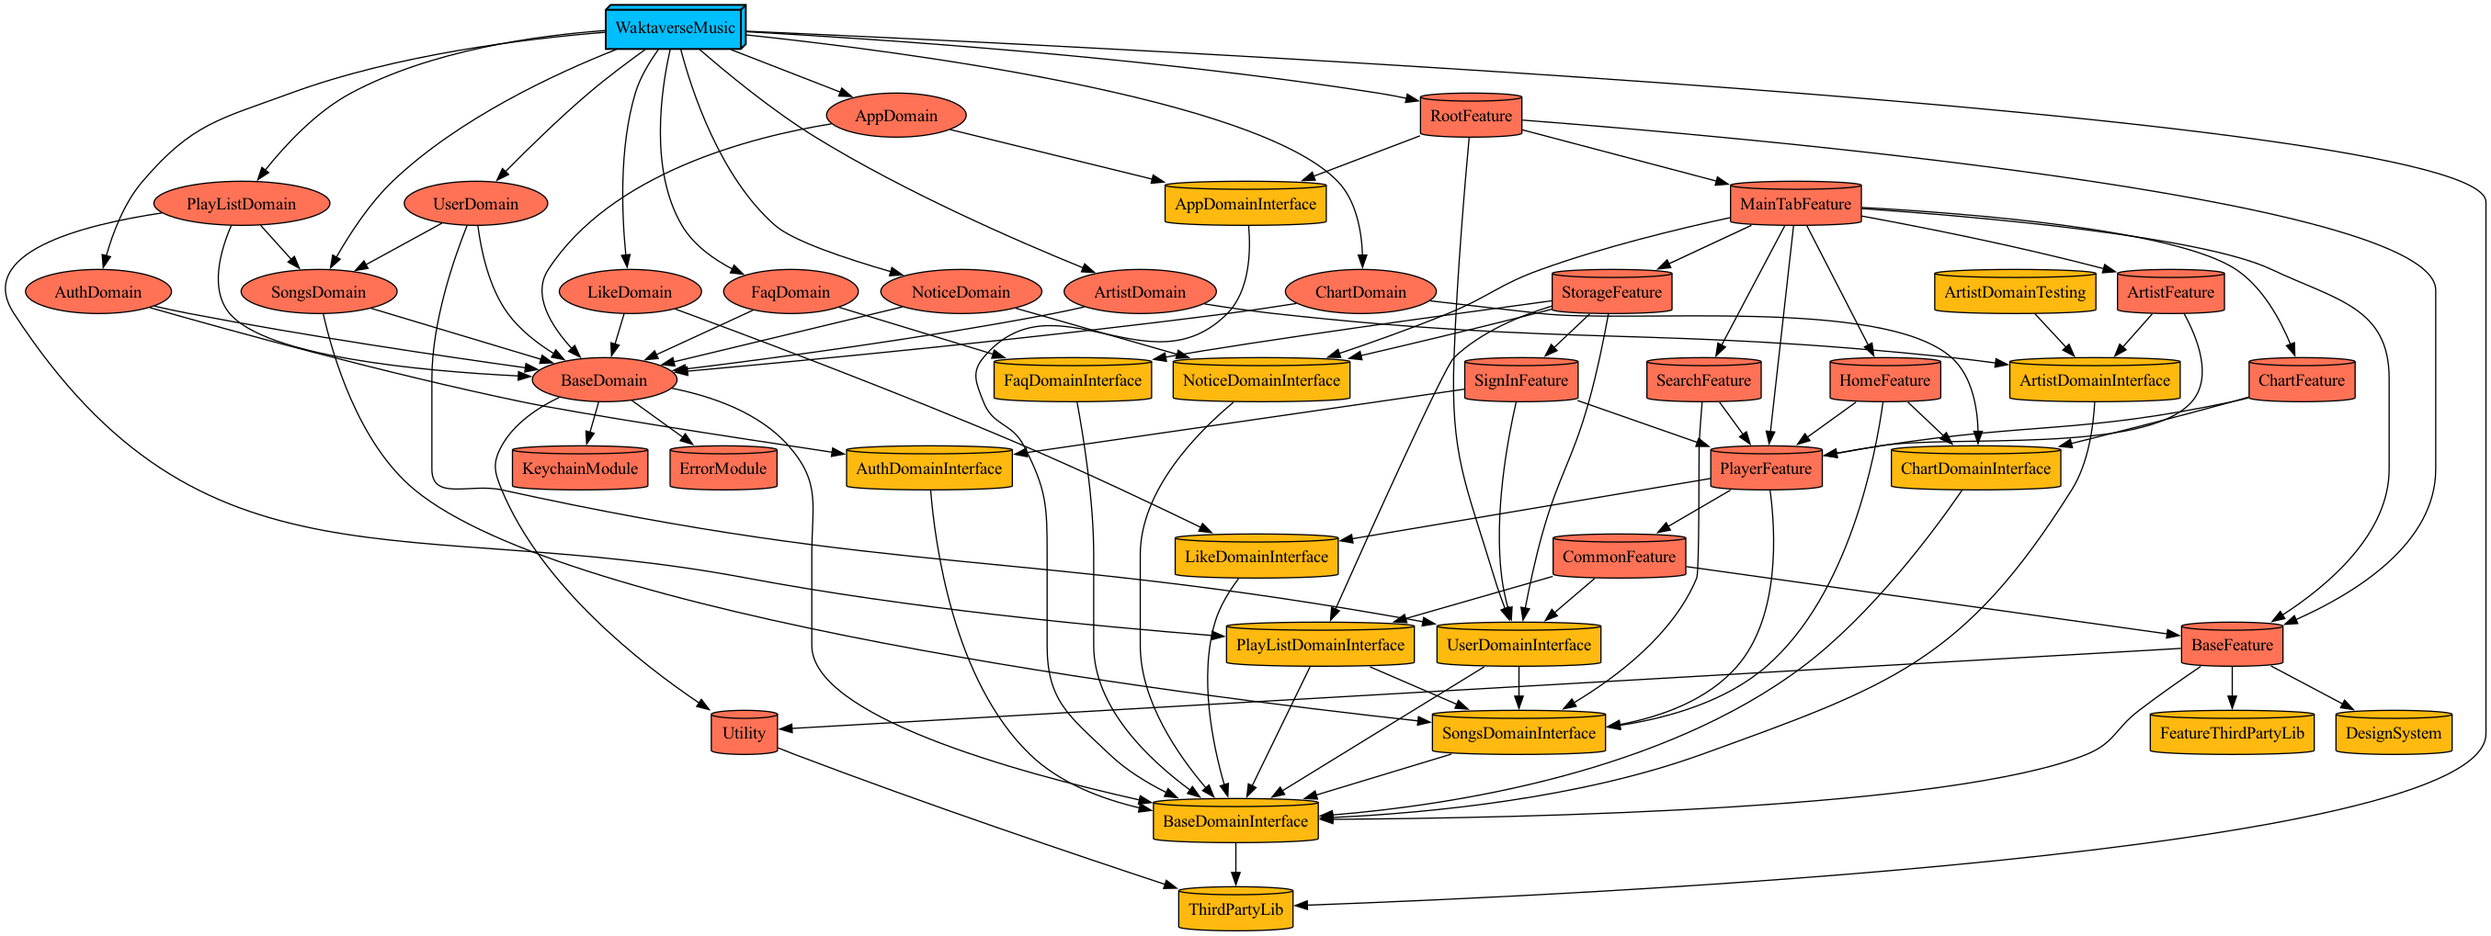
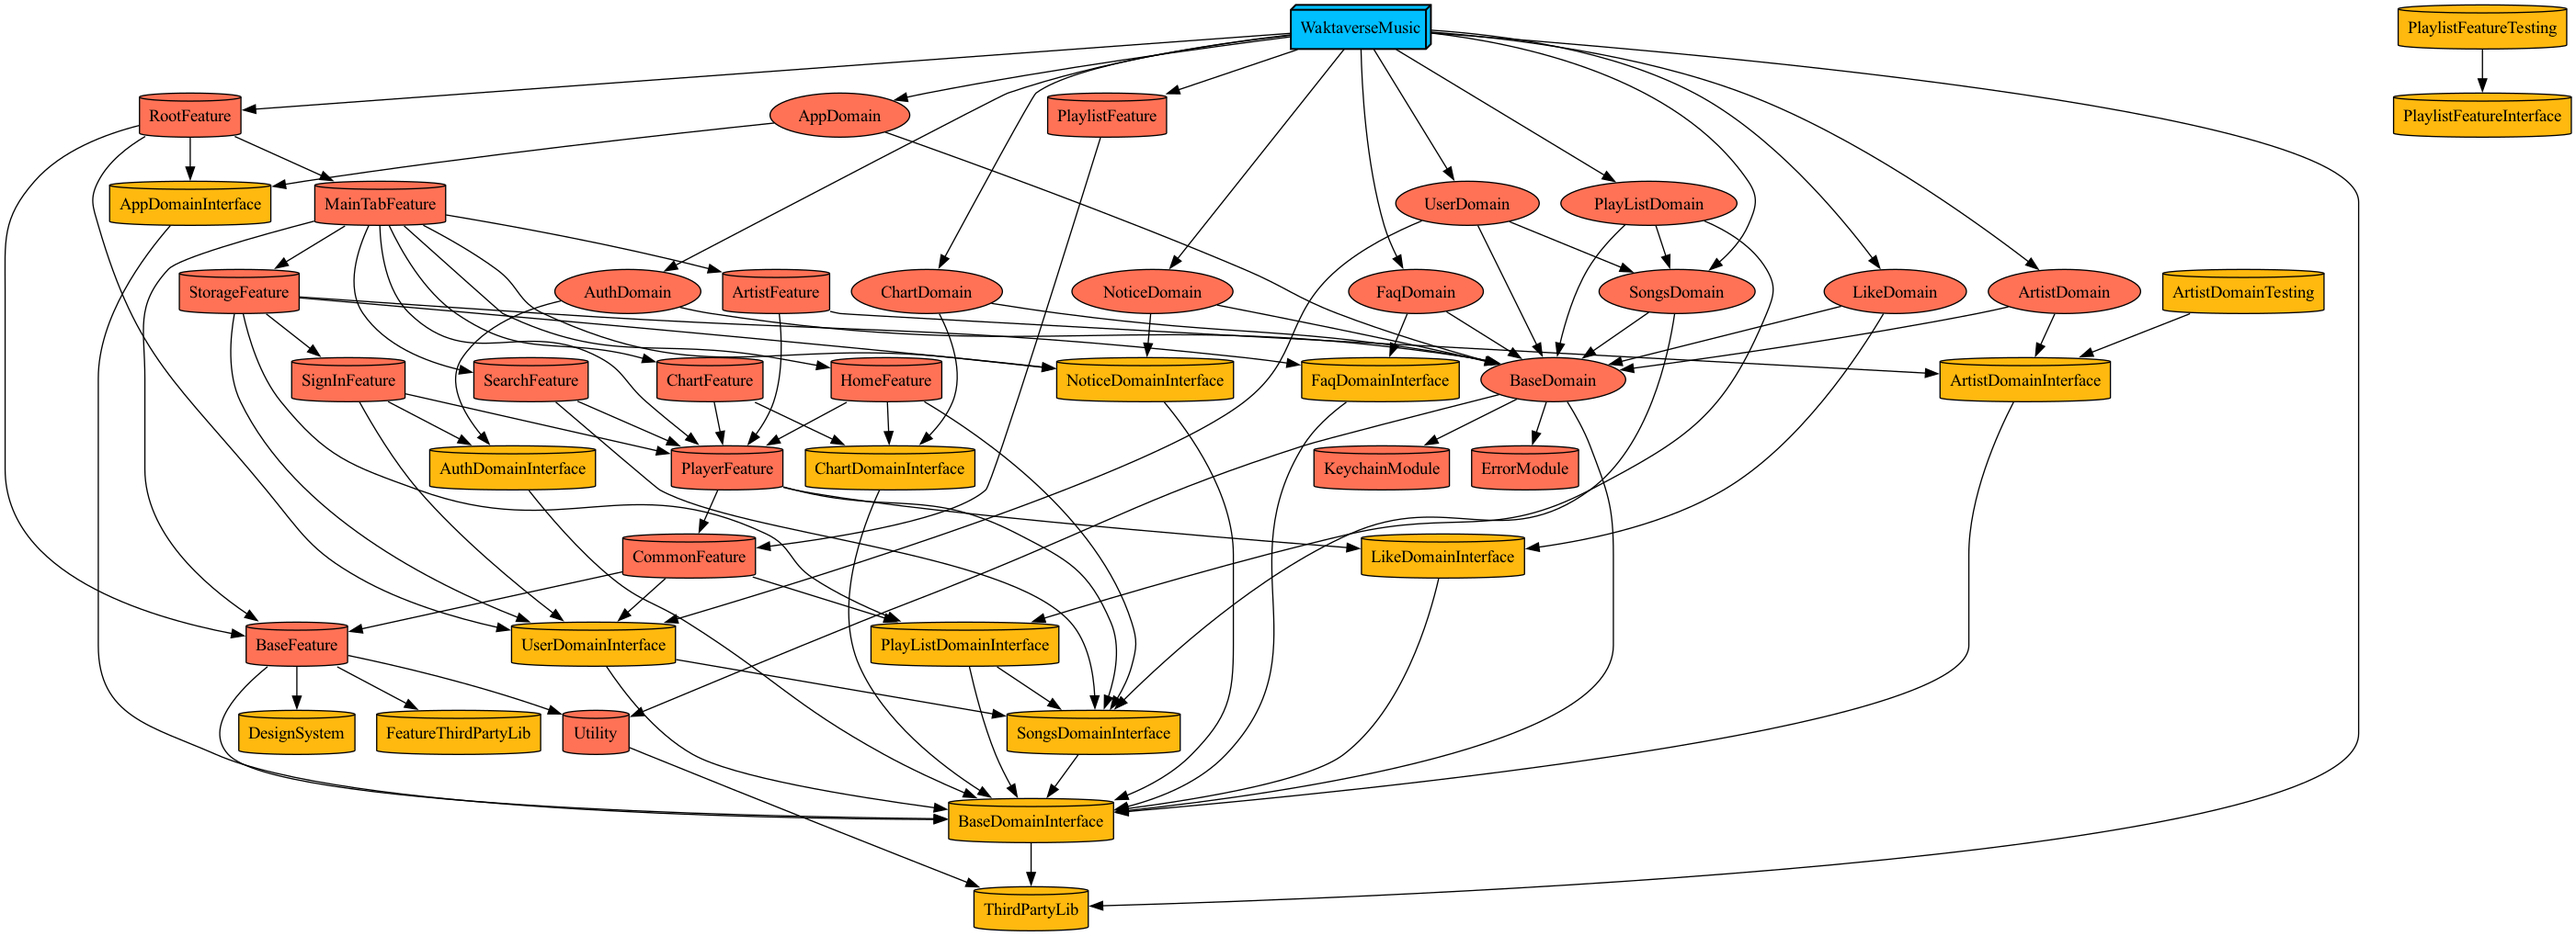
:recycle: :: 플레이리스트 모듈 생성

diff --git a/Projects/Features/PlaylistFeature/Project.swift b/Projects/Features/PlaylistFeature/Project.swift
@@ -1,0 +1,27 @@
+import DependencyPlugin
+import ProjectDescription
+import ProjectDescriptionHelpers
+
+let project = Project.module(
+    name: ModulePaths.Feature.PlaylistFeature.rawValue,
+    targets: [
+        .interface(module: .feature(.PlaylistFeature)),
+        .implements(
+            module: .feature(.PlaylistFeature),
+            product: .staticFramework,
+            spec: .init(
+                resources: ["Resources/**"],
+                dependencies: [
+                    .feature(target: .CommonFeature),
+                    .feature(target: .PlaylistFeature, type: .interface)
+                ]
+            )
+           ),
+        .testing(module: .feature(.PlaylistFeature), dependencies: [
+            .feature(target: .PlaylistFeature, type: .interface)
+        ]),
+        .tests(module: .feature(.PlaylistFeature), dependencies: [
+            .feature(target: .PlaylistFeature)
+        ])
+    ]
+)

diff --git a/Projects/App/Project.swift b/Projects/App/Project.swift
@@ -33,6 +33,7 @@ let targets: [Target] = [
         dependencies: [
             .Project.Features.RootFeature,
             .Project.Module.ThirdPartyLib,
+            .feature(target: .PlaylistFeature),
             .domain(target: .AppDomain),
             .domain(target: .ArtistDomain),
             .domain(target: .AuthDomain),

diff --git a/Plugin/DependencyPlugin/ProjectDescriptionHelpers/ModulePaths.swift b/Plugin/DependencyPlugin/ProjectDescriptionHelpers/ModulePaths.swift
@@ -30,6 +30,7 @@ extension ModulePaths: MicroTargetPathConvertable {
 
 public extension ModulePaths {
     enum Feature: String, MicroTargetPathConvertable {
+        case PlaylistFeature
         case BaseFeature
         case ArtistFeature
         case ChartFeature

diff --git a/Projects/Features/PlaylistFeature/Tests/PlaylistFeatureTest.swift b/Projects/Features/PlaylistFeature/Tests/PlaylistFeatureTest.swift
@@ -1,0 +1,11 @@
+import XCTest
+
+final class PlaylistFeatureTests: XCTestCase {
+    override func setUpWithError() throws {}
+
+    override func tearDownWithError() throws {}
+
+    func testExample() {
+        XCTAssertEqual(1, 1)
+    }
+}

diff --git a/Projects/Features/PlaylistFeature/Interface/Interface.swift b/Projects/Features/PlaylistFeature/Interface/Interface.swift
@@ -1,0 +1,1 @@
+// This is for Tuist

diff --git a/Projects/Features/PlaylistFeature/Sources/Sources.swift b/Projects/Features/PlaylistFeature/Sources/Sources.swift
@@ -1,0 +1,1 @@
+// This is for Tuist

diff --git a/Projects/Features/PlaylistFeature/Testing/Testing.swift b/Projects/Features/PlaylistFeature/Testing/Testing.swift
@@ -1,0 +1,1 @@
+// This is for Tuist
